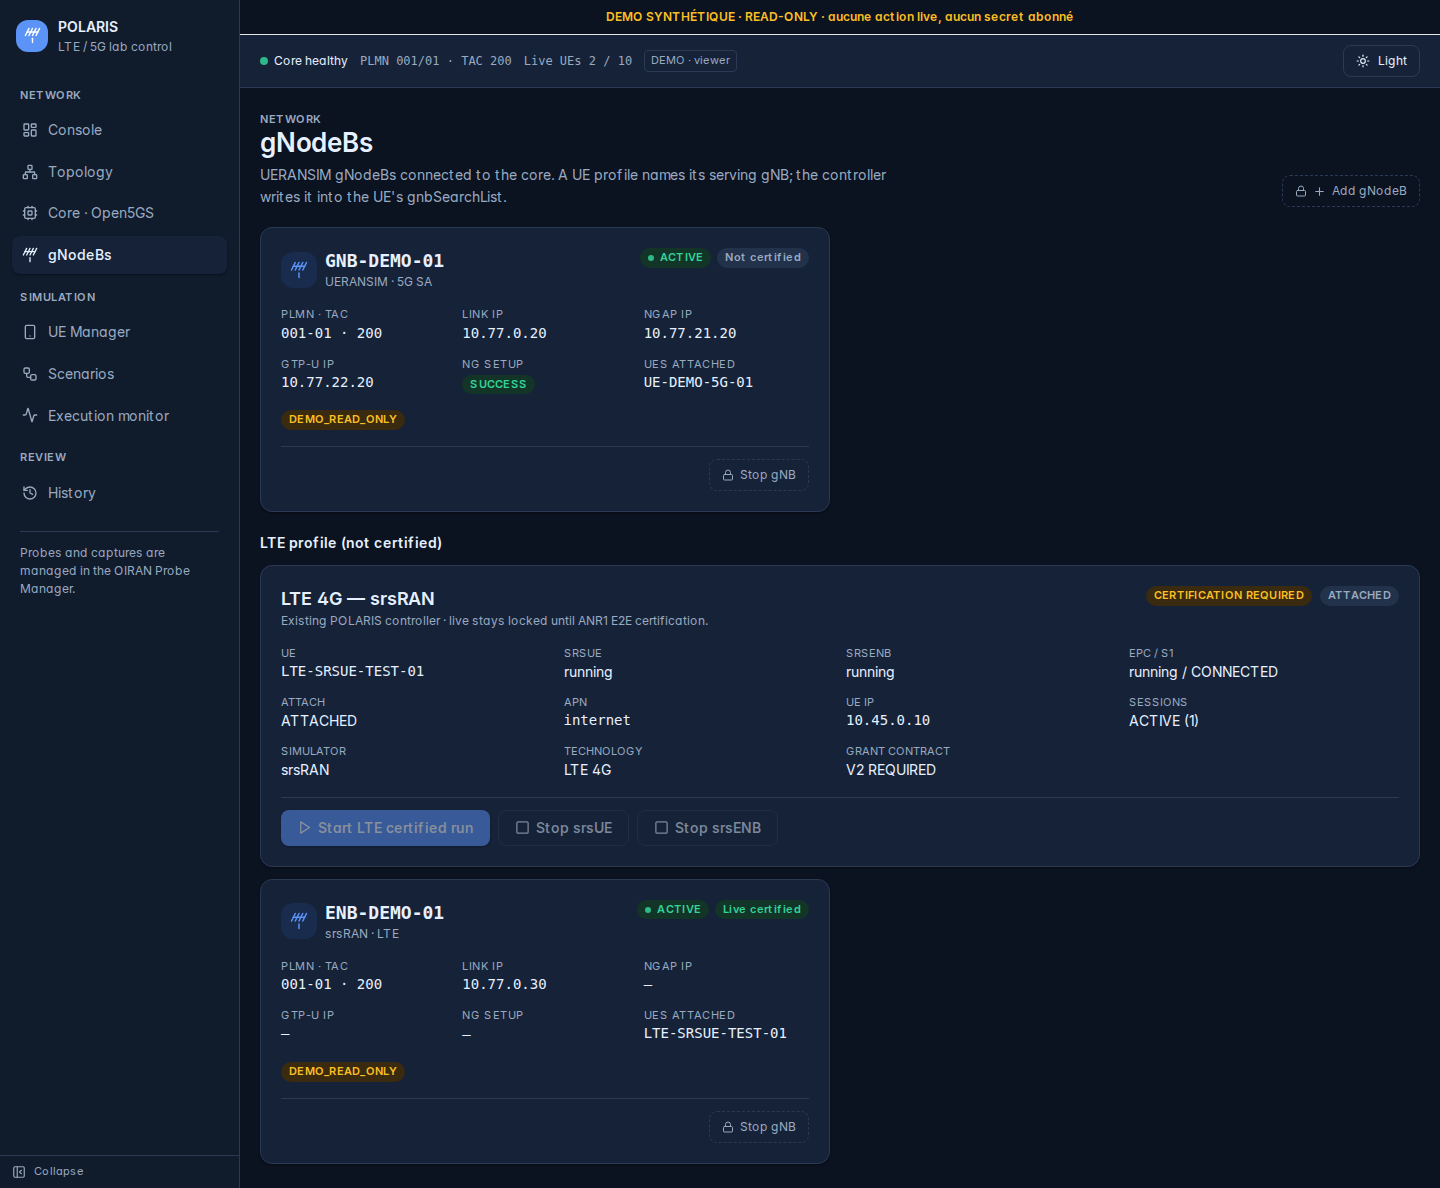
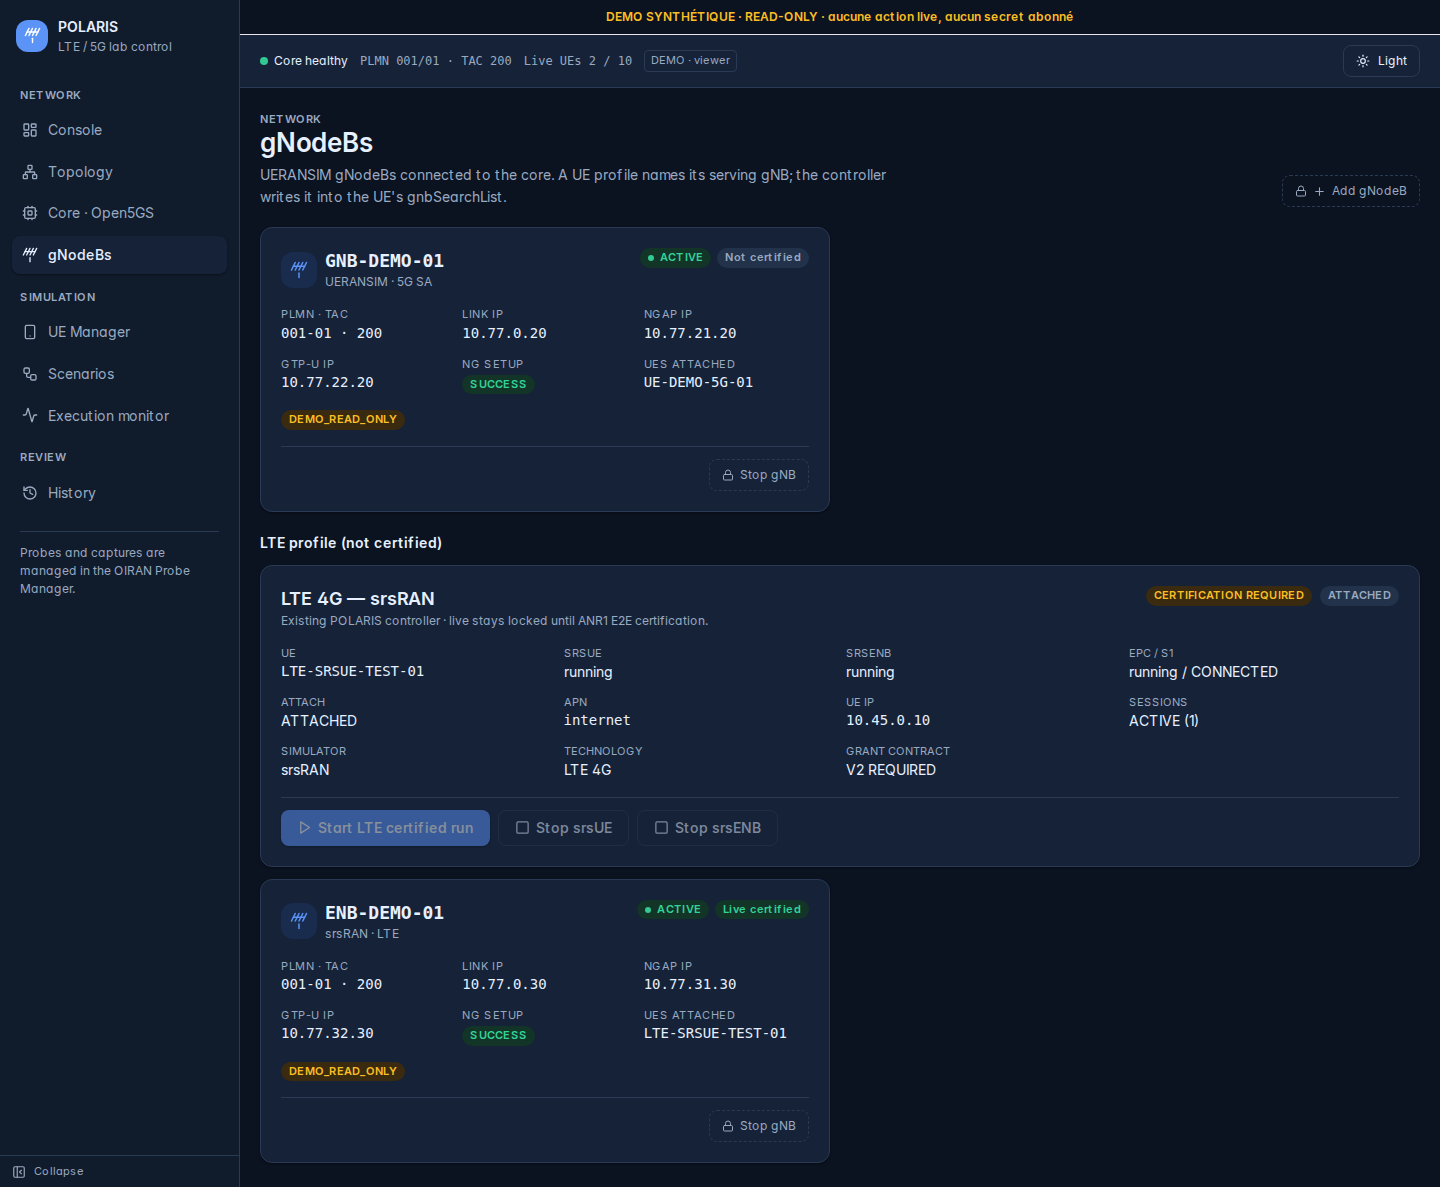
feat(polaris): show explicit LTE and 5G topology chains

diff --git a/apps/simulator-control/src/pages/Topology.tsx b/apps/simulator-control/src/pages/Topology.tsx
@@ -22,7 +22,7 @@
 //     down       → bad   (red)
 //     unknown    → mute  (gray)
 
-import { useMemo } from 'react';
+import { useMemo, type ReactNode } from 'react';
 import { Link } from 'react-router-dom';
 import { AlertTriangle, Antenna, Smartphone } from 'lucide-react';
 import { Card, PageHeader, Pill, regTone } from '@/components/mockup';
@@ -36,9 +36,7 @@ import {
 } from '@/data/queries';
 import type { NodeItem, UeState } from '@/data/polarisTypes';
 
-const CORE_VERSION = 'Open5GS 2.8.0';
-
-const CORE_NF_CATALOGUE: { nf: string; role: string }[] = [
+const FIVE_G_NF_CATALOGUE: { nf: string; role: string }[] = [
   { nf: 'AMF', role: 'Access & mobility' },
   { nf: 'SMF', role: 'Session management' },
   { nf: 'UPF', role: 'User plane' },
@@ -49,6 +47,14 @@ const CORE_NF_CATALOGUE: { nf: string; role: string }[] = [
   { nf: 'PCF', role: 'Policy control' },
   { nf: 'NSSF', role: 'Network slicing' },
   { nf: 'BSF', role: 'Binding support' },
+];
+
+const LTE_NF_CATALOGUE: { nf: string; role: string }[] = [
+  { nf: 'MME', role: 'S1 mobility' },
+  { nf: 'SGWC', role: 'Session control' },
+  { nf: 'SGWU', role: 'S1-U user plane' },
+  { nf: 'HSS', role: 'Subscriber data' },
+  { nf: 'PCRF', role: 'Policy control' },
 ];
 
 export type LinkState = 'configured' | 'down' | 'unknown';
@@ -112,12 +118,16 @@ export function TopologyPage() {
   const loading = lab.isLoading || nodes.isLoading || ues.isLoading;
   const errored = lab.error || nodes.error || ues.error;
 
-  // Aggregate N2/N3 state across all configured 5G gNBs.
   const nodeList = nodes.data?.items ?? [];
-  const anyLinkUp = nodeList.some(
-    (n) =>
+  const any5gLinkUp = nodeList.some(
+    (n) => n.technology.includes('5G') && (
       linkState(n.process_state, n.n2_endpoint) === 'configured' ||
-      linkState(n.process_state, n.n3_endpoint) === 'configured',
+      linkState(n.process_state, n.n3_endpoint) === 'configured'),
+  );
+  const anyLteLinkUp = nodeList.some(
+    (n) => n.technology === 'LTE' && (
+      linkState(n.process_state, n.n2_endpoint) === 'configured' ||
+      linkState(n.process_state, n.n3_endpoint) === 'configured'),
   );
 
   return (
@@ -128,10 +138,13 @@ export function TopologyPage() {
         desc="Core, radio and UEs as they are wired now. Links show the live state of each interface."
         actions={
           <div className="flex flex-wrap gap-2">
-            <Pill tone={anyLinkUp ? 'ok' : 'mute'} dot={anyLinkUp ? 'live' : undefined}>
-              {anyLinkUp ? 'N2 / N3 up' : 'N2 / N3 unknown'}
+            <Pill tone={any5gLinkUp ? 'ok' : 'mute'} dot={any5gLinkUp ? 'live' : undefined}>
+              {any5gLinkUp ? 'N2 / N3 configured' : 'N2 / N3 UNKNOWN'}
             </Pill>
-            <Pill tone="mute">No mobility (UERANSIM)</Pill>
+            <Pill tone={anyLteLinkUp ? 'ok' : 'mute'} dot={anyLteLinkUp ? 'live' : undefined}>
+              {anyLteLinkUp ? 'S1-MME / S1-U configured' : 'S1-MME / S1-U UNKNOWN'}
+            </Pill>
+            {import.meta.env.VITE_POLARIS_DEMO_MODE === '1' ? <Pill tone="warn">DEMO TOPOLOGY</Pill> : null}
           </div>
         }
       />
@@ -153,8 +166,7 @@ export function TopologyPage() {
         <>
           <Card className="p-5 overflow-x-auto">
             <div className="min-w-[680px] flex flex-col items-center gap-0" data-testid="topology-view">
-              <CoreBlock observed={observed} coreLabel={coreTone.label} />
-              <GnbTree nodes={nodeList} uesByNode={uesByNode} />
+              <AccessTopology nodes={nodeList} uesByNode={uesByNode} observed={observed} coreLabel={coreTone.label} />
             </div>
           </Card>
 
@@ -175,23 +187,31 @@ export function TopologyPage() {
 function CoreBlock({
   observed,
   coreLabel,
+  title,
+  catalogue,
+  testId,
+  metadata,
 }: {
   observed: WireLabObserved | undefined;
   coreLabel: string;
+  title: string;
+  catalogue: { nf: string; role: string }[];
+  testId: string;
+  metadata: string;
 }) {
   return (
-    <article className="w-full max-w-3xl rounded-2xl border border-line bg-canvas p-4" data-testid="topology-core-block">
+    <article className="w-full rounded-2xl border border-line bg-canvas p-4" data-testid={testId}>
       <header className="flex items-center justify-between gap-2 mb-3">
-        <p className="font-semibold">5G Core · {CORE_VERSION}</p>
+        <p className="font-semibold">{title}</p>
         <span className="mono text-ep-sm text-mute truncate">
-          PLMN 001/01 · S-NSSAI 1/010203 · DNN internet
+          {metadata}
         </span>
       </header>
       <p className="text-ep-xs text-mute mb-2" data-testid="topology-core-status">
         {coreLabel}
       </p>
       <div className="grid grid-cols-2 md:grid-cols-5 gap-2" data-testid="topology-nfs-grid">
-        {CORE_NF_CATALOGUE.map((entry) => {
+        {catalogue.map((entry) => {
           const pill = nfPillState(entry.nf, observed);
           return (
             <div
@@ -218,31 +238,54 @@ function CoreBlock({
   );
 }
 
-function GnbTree({
+function AccessTopology({
   nodes,
   uesByNode,
+  observed,
+  coreLabel,
 }: {
   nodes: NodeItem[];
   uesByNode: Map<string, UeState[]>;
+  observed: WireLabObserved | undefined;
+  coreLabel: string;
 }) {
-  if (nodes.length === 0) {
-    return (
-      <div className="mt-4 text-ep-sm text-mute">
-        No gNB reported by <code className="mono">/nodes</code>.
-      </div>
-    );
-  }
   return (
-    <div
-      className={`mt-2 grid gap-x-16 gap-y-4 w-full max-w-3xl ${
-        nodes.length === 1 ? 'grid-cols-1' : 'grid-cols-2'
-      }`}
-      data-testid="topology-gnb-tree"
-    >
-      {nodes.map((node) => (
+    <div className="grid w-full grid-cols-1 gap-5 lg:grid-cols-2" data-testid="topology-access-chains">
+      <AccessChain
+        label="5G SA — UERANSIM"
+        testId="topology-chain-5g"
+        core={<CoreBlock observed={observed} coreLabel={coreLabel} title="Open5GS 5GC · 5G SA" catalogue={FIVE_G_NF_CATALOGUE} testId="topology-core-5g" metadata="PLMN 001/01 · S-NSSAI 1/010203 · DNN internet" />}
+        nodes={nodes.filter((node) => node.technology.includes('5G'))}
+        uesByNode={uesByNode}
+      />
+      <AccessChain
+        label="LTE 4G — srsRAN"
+        testId="topology-chain-lte"
+        core={<CoreBlock observed={observed} coreLabel={catalogueCoreTone(LTE_NF_CATALOGUE, observed)} title="Open5GS EPC · LTE 4G" catalogue={LTE_NF_CATALOGUE} testId="topology-core-lte" metadata="PLMN 001/01 · APN internet" />}
+        nodes={nodes.filter((node) => node.technology === 'LTE')}
+        uesByNode={uesByNode}
+      />
+    </div>
+  );
+}
+
+function AccessChain({ label, testId, core, nodes, uesByNode }: {
+  label: string;
+  testId: string;
+  core: ReactNode;
+  nodes: NodeItem[];
+  uesByNode: Map<string, UeState[]>;
+}) {
+  return (
+    <section className="flex min-w-0 flex-col items-center gap-2 rounded-2xl border border-line p-3" data-testid={testId}>
+      <h2 className="text-ep-lg font-semibold">{label}</h2>
+      {core}
+      {nodes.length === 0 ? (
+        <p className="rounded-md border border-dashed border-line p-3 text-ep-sm text-mute">Radio node UNKNOWN</p>
+      ) : nodes.map((node) => (
         <GnbColumn key={node.id} node={node} attachedUes={uesByNode.get(node.id) ?? []} />
       ))}
-    </div>
+    </section>
   );
 }
 
@@ -274,9 +317,9 @@ function GnbColumn({ node, attachedUes }: { node: NodeItem; attachedUes: UeState
               <Antenna width={16} height={16} aria-hidden />
             </span>
             <div className="min-w-0">
-              <p className="mono font-semibold truncate">{node.id}</p>
+              <p className="font-semibold truncate">{isLte ? 'srsENB' : 'UERANSIM gNB'} · <span className="mono">{node.id}</span></p>
               <p className="mono text-ep-xs text-mute truncate">
-                link {node.link_ip} · {isLte ? 'eUTRAN' : 'NR'}
+                {node.simulator} · link {node.link_ip} · {isLte ? 'LTE eUTRAN' : '5G NR'}
               </p>
             </div>
           </div>
@@ -319,7 +362,7 @@ function UeMiniCard({ ue }: { ue: UeState }) {
     >
       <div className="flex items-center gap-1.5">
         <Smartphone width={14} height={14} className="text-mute shrink-0" />
-        <span className="mono text-ep-sm font-medium truncate">{ue.id}</span>
+        <span className="text-ep-sm font-medium truncate">{ue.simulator === 'srsRAN' ? 'srsUE' : 'UERANSIM UE'} · <span className="mono">{ue.id}</span></span>
       </div>
       <div className="flex flex-wrap gap-1">
         <Pill tone={regTone(regState)}>
@@ -381,8 +424,9 @@ function toneDotClass(tone: NfPillTone): string {
 function topologyCoreTone(observed: WireLabObserved | undefined): { label: string } {
   const map = observed?.nfs;
   if (map && Object.keys(map).length > 0) {
-    const total = Object.keys(map).length;
-    const up = Object.values(map).filter(
+    const reported = FIVE_G_NF_CATALOGUE.map(({ nf }) => map[nf]).filter(Boolean);
+    const total = reported.length;
+    const up = reported.filter(
       (c) => c.process_state === 'running' && c.health === 'healthy',
     ).length;
     return {
@@ -392,4 +436,16 @@ function topologyCoreTone(observed: WireLabObserved | undefined): { label: strin
   const open = observed?.open5gs;
   if (!open) return { label: 'AMF container: not reported by /lab' };
   return { label: `AMF container: ${open.process_state}, ${open.health}` };
+}
+
+function catalogueCoreTone(
+  catalogue: { nf: string; role: string }[],
+  observed: WireLabObserved | undefined,
+): string {
+  const reported = catalogue.map(({ nf }) => observed?.nfs?.[nf]).filter(Boolean);
+  if (reported.length === 0) return 'EPC state: UNKNOWN — no per-function evidence from /lab.observed.nfs';
+  const healthy = reported.filter(
+    (item) => item?.process_state === 'running' && item.health === 'healthy',
+  ).length;
+  return `EPC functions: ${healthy}/${catalogue.length} running + healthy (${reported.length}/${catalogue.length} observed)`;
 }

diff --git a/apps/simulator-control/scripts/demoApiPlugin.ts b/apps/simulator-control/scripts/demoApiPlugin.ts
@@ -85,7 +85,16 @@ function response(path: string): unknown {
     updated_at_epoch_s: now, updated_by: 'DEMO', observed_controller_running: 2, observed_total_running: 2,
     reconciliation: { operation_id: null, desired_count: 2, state: 'IDLE', started_at_epoch_s: null, completed_at_epoch_s: null, started: [], stopped: [], failures: [] },
     execution_started: false, source: 'DEMO_SYNTHETIC',
-    observed: { open5gs: processObservation('running'), ueransim_gnb: processObservation('running'), ueransim_ue: processObservation('running', true), srsran_enb: processObservation('running', true), srsran_ue: processObservation('running', true), lte_attach: 'ATTACHED' },
+    observed: {
+      open5gs: processObservation('running'),
+      nfs: Object.fromEntries(
+        ['AMF', 'SMF', 'UPF', 'NRF', 'AUSF', 'UDM', 'UDR', 'PCF', 'NSSF', 'BSF', 'MME', 'SGWC', 'SGWU', 'HSS', 'PCRF']
+          .map((nf) => [nf, processObservation('running')]),
+      ),
+      ueransim_gnb: processObservation('running'), ueransim_ue: processObservation('running', true),
+      srsran_enb: processObservation('running', true), srsran_ue: processObservation('running', true),
+      lte_attach: 'ATTACHED',
+    },
   };
   if (path === '/system/health') return { cpu: { usage_percent: 18, idle_percent: 82, logical_cpus: 8 }, memory: { total_bytes: 16_000_000_000, available_bytes: 9_000_000_000, used_bytes: 7_000_000_000 }, disk: { total_bytes: 400_000_000_000, used_bytes: 280_000_000_000, available_bytes: 120_000_000_000, usage_percent: 70 }, decision: { state: 'DEMO', writes_allowed: false, reason: 'DEMO_READ_ONLY', maximum_budget_bytes: 0 }, load_average: '0.35 0.42 0.40', uptime_seconds: 86_400, observed_at_epoch_s: now };
   if (path === '/ues') return { items: ueItems, configured_profiles: [], configured_count: 2, active_count: 2, registered_count: 2, pdu_session_count: 2, source: 'DEMO_SYNTHETIC' };
@@ -94,7 +103,7 @@ function response(path: string): unknown {
   if (path === '/nodes' || path === '/gnbs') return {
     items: [
       { id: 'GNB-DEMO-01', name: 'DEMO 5G gNB', technology: '5G SA', simulator: 'UERANSIM', plmn: '001-01', cell_id: '0xDEMO01', link_ip: '10.77.0.20', n2_endpoint: '10.77.21.20', n3_endpoint: '10.77.22.20', process_state: 'running', health: 'healthy', configured: true, controller_owned: false, uptime_seconds: 3600, actions: { start: false, stop: false, reason: 'DEMO_READ_ONLY' } },
-      { id: 'ENB-DEMO-01', name: 'DEMO LTE eNB', technology: 'LTE', simulator: 'srsRAN', plmn: '001-01', cell_id: '0xDEMO02', link_ip: '10.77.0.30', n2_endpoint: null, n3_endpoint: null, process_state: 'running', health: 'healthy', configured: true, controller_owned: true, uptime_seconds: 1800, actions: { start: false, stop: false, reason: 'DEMO_READ_ONLY' } },
+      { id: 'ENB-DEMO-01', name: 'DEMO LTE eNB', technology: 'LTE', simulator: 'srsRAN', plmn: '001-01', cell_id: '0xDEMO02', link_ip: '10.77.0.30', n2_endpoint: '10.77.31.30', n3_endpoint: '10.77.32.30', process_state: 'running', health: 'healthy', configured: true, controller_owned: true, uptime_seconds: 1800, actions: { start: false, stop: false, reason: 'DEMO_READ_ONLY' } },
     ], configured_count: 2, running_count: 2, observed_at_epoch_s: now, source: 'DEMO_SYNTHETIC',
   };
   if (path === '/lte/status') return {

diff --git a/apps/simulator-control/e2e/demo-preview.spec.ts b/apps/simulator-control/e2e/demo-preview.spec.ts
@@ -17,6 +17,20 @@ test('DEMO preview exposes LTE/5G pages read-only without horizontal overflow', 
   await expectNoOverflow(page);
   if (captureProject(testInfo.project.name)) await capture(page, testInfo.project.name, 'ue-manager-lte');
 
+  await page.goto('./network/topology');
+  await expect(page.getByTestId('topology-chain-5g')).toContainText('Open5GS 5GC');
+  await expect(page.getByTestId('topology-chain-5g')).toContainText('UERANSIM gNB');
+  await expect(page.getByTestId('topology-chain-5g')).toContainText('UERANSIM UE');
+  await expect(page.getByTestId('topology-chain-lte')).toContainText('Open5GS EPC');
+  await expect(page.getByTestId('topology-chain-lte')).toContainText('srsENB');
+  await expect(page.getByTestId('topology-chain-lte')).toContainText('srsUE');
+  await expect(page.getByTestId('topology-link-S1-MME · S1AP')).toHaveAttribute('data-state', 'configured');
+  await expect(page.getByTestId('topology-link-S1-U · GTP-U')).toHaveAttribute('data-state', 'configured');
+  await expect(page.getByTestId('topology-link-N2 · NGAP')).toHaveAttribute('data-state', 'configured');
+  await expect(page.getByTestId('topology-link-N3 · GTP-U')).toHaveAttribute('data-state', 'configured');
+  await expectNoOverflow(page);
+  if (captureProject(testInfo.project.name)) await capture(page, testInfo.project.name, 'topology-lte-5g');
+
   await page.goto('./scenarios/new');
   await page.getByTestId('technology-lte').click();
   await expect(page.getByText(/Live requires ANR1 LTE E2E certification/)).toBeVisible();

diff --git a/apps/simulator-control/e2e/topology-lte-5g.spec.ts b/apps/simulator-control/e2e/topology-lte-5g.spec.ts
@@ -1,0 +1,27 @@
+import { expect, test } from '@playwright/test';
+
+test.skip(process.env.POLARIS_DEMO_MODE !== '1', 'Dedicated local DEMO preview only');
+
+test('Topology visibly keeps srsENB and srsUE beside the UERANSIM 5G chain', async ({ page }) => {
+  await page.goto('./network/topology');
+
+  const lte = page.getByTestId('topology-chain-lte');
+  const fiveG = page.getByTestId('topology-chain-5g');
+
+  await expect(lte).toContainText('Open5GS EPC');
+  await expect(lte).toContainText('srsENB');
+  await expect(lte).toContainText('srsUE');
+  await expect(lte.getByTestId('topology-link-S1-MME · S1AP')).toHaveAttribute('data-state', 'configured');
+  await expect(lte.getByTestId('topology-link-S1-U · GTP-U')).toHaveAttribute('data-state', 'configured');
+
+  await expect(fiveG).toContainText('Open5GS 5GC');
+  await expect(fiveG).toContainText('UERANSIM gNB');
+  await expect(fiveG).toContainText('UERANSIM UE');
+  await expect(fiveG.getByTestId('topology-link-N2 · NGAP')).toHaveAttribute('data-state', 'configured');
+  await expect(fiveG.getByTestId('topology-link-N3 · GTP-U')).toHaveAttribute('data-state', 'configured');
+
+  const overflow = await page.evaluate(
+    () => document.documentElement.scrollWidth > document.documentElement.clientWidth,
+  );
+  expect(overflow).toBe(false);
+});

diff --git a/apps/simulator-control/CHANGELOG.md b/apps/simulator-control/CHANGELOG.md
@@ -1,5 +1,17 @@
 # @telecom/simulator-control — Changelog
 
+## 0.16.0 — 2026-10-31 — explicit LTE/5G topology
+
+- Keeps the existing `/network/topology` route and renders two visible chains
+  in the same topology: Open5GS 5GC → UERANSIM gNB → UERANSIM UE, and
+  Open5GS EPC → srsENB → srsUE.
+- Labels N2/NGAP, N3/GTP-U, S1-MME/S1AP and S1-U/GTP-U independently, using
+  `UNKNOWN` whenever the backend does not publish an endpoint or function.
+- Extends the isolated preview with clearly synthetic DEMO EPC/5GC evidence;
+  all live actions remain disabled and every mutating request remains locked.
+- Adds Playwright assertions and light/dark captures which fail when either
+  `srsENB` or `srsUE` disappears from the topology.
+
 ## 0.15.1 — 2026-10-31 — final LTE Grant V2 safety contract
 
 - Uses the canonical `LTE-SRSUE-TEST-01` profile exposed by POLARIS 0.22.0.
